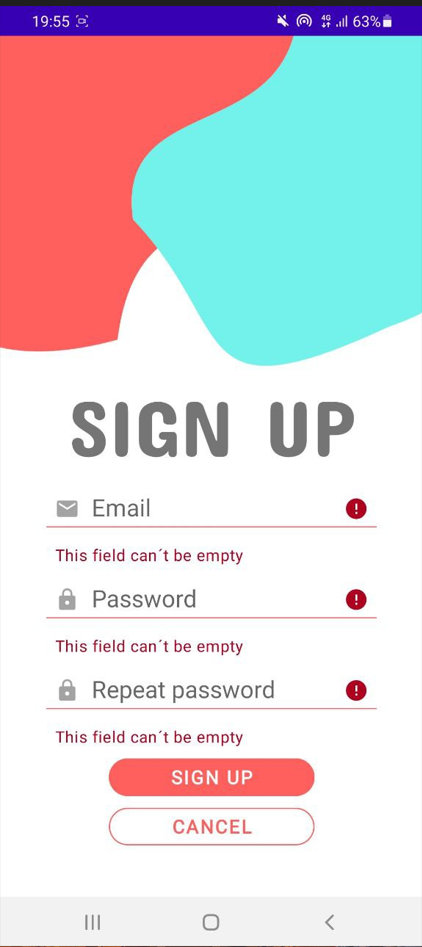
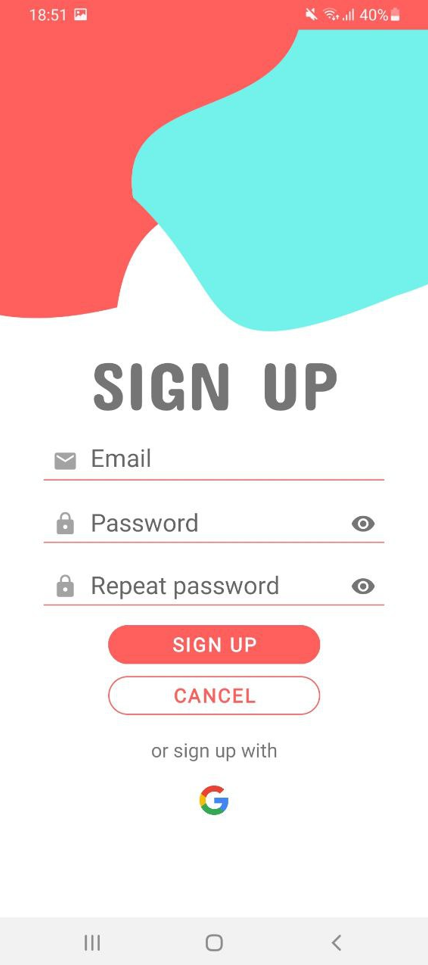
Init Readme V1

diff --git a/README.md b/README.md
@@ -1,58 +1,6 @@
 # MeetMap
 Application that allows you to see the next activities in your city and meet people on them. This project will be made by Almudena Fernandez, Iker Iturralde and Nerea Ramos for the modules: "Desarrollo de Interfaces" and "Programación Multimedia y dispositivos Móviles"
 
-## [Splash View](https://github.com/leoneliker/MeetMap/blob/master/app/src/main/java/com/ikalne/meetmap/Splash.kt)
-
-
-[Splash](https://www.youtube.com/shorts/q-YjV9VqvEQ) view with two animations of two hands coming together.
-
-
-![Splash Gif](img/splash_gif.gif)
-
-
-## [Initial View](https://github.com/leoneliker/MeetMap/blob/master/app/src/main/java/com/ikalne/meetmap/Initial.kt)
-
-
-[Initial carousel](https://www.youtube.com/shorts/AK8dwAdvpHA) that starts the app with information about the possibilities of the application.
-
-
-![Initial Gif](img/initial_gif.gif)
-
-
-## Login and Sign Up
-
-
-Login and SignUp connected to the database and with verification of the fields.
-
-
-[![Login](img/Login.png)](https://github.com/leoneliker/MeetMap/blob/master/app/src/main/java/com/ikalne/meetmap/Login.kt)  [![SignUp](img/signUp.png)](https://github.com/leoneliker/MeetMap/blob/master/app/src/main/java/com/ikalne/meetmap/SignUp.kt)
-
-
-## [Fragments Main View](https://github.com/leoneliker/MeetMap/blob/master/app/src/main/java/com/ikalne/meetmap/MainAppActivity.kt)
-
-
-[Main view of the application](https://www.youtube.com/shorts/ME_c6M86qBU).  A map that through the location allows you to know the plans that are nearby. A bar with buttons that allows navigation between the different possibilities of the app: favorites, chat, profile.
-
-
-![Fragments Gif](img/fragments_gif.gif)
-
-
-Connects with device location for geolocation:
-
-
-[![Map](img/ubicacion.png)](https://github.com/leoneliker/MeetMap/blob/master/app/src/main/java/com/ikalne/meetmap/fragments/MapFragment.kt)
-
-
-The user's profile is a [scrollable view](https://github.com/leoneliker/MeetMap/blob/master/app/src/main/java/com/ikalne/meetmap/fragments/EditProfileFragment.kt) it has a rounded photo of the person, fields with their personal data and two buttons: cancel and save.
-
-
-## [Figma prototype](https://www.figma.com/file/BnFUxtnABdXq7QyjVwtNXr/MeetMap?node-id=58%3A35&t=M3GuCny9oMMSULwz-1)
-
-
-![Figma prototype](img/figma_prototype.png)
-
-
-
 ## User manual
 
 #### Welcome to MeetMap, an application that will allow you to meet a lot of people doing really interesting plans in Madrid.
@@ -84,5 +32,123 @@ Finally, back in the map, we can see:
 
 Also, you can see an example of edit your profile.
 
+## [Figma prototype](https://www.figma.com/file/BnFUxtnABdXq7QyjVwtNXr/MeetMap?node-id=58%3A35&t=M3GuCny9oMMSULwz-1)
 
-https://www.youtube.com/@meetmap
+
+![Figma prototype](img/figma_prototype.png)
+
+## [Splash View](https://github.com/leoneliker/MeetMap/blob/master/app/src/main/java/com/ikalne/meetmap/Splash.kt)
+
+
+[Splash](https://www.youtube.com/shorts/q-YjV9VqvEQ) view with two animations of two hands coming together.
+
+
+![Splash Gif](img/splash_gif.gif)
+
+
+## [Initial View](https://github.com/leoneliker/MeetMap/blob/master/app/src/main/java/com/ikalne/meetmap/Initial.kt)
+
+
+[Initial carousel](https://www.youtube.com/shorts/cyRHQYf8o8I) that starts the app with information about the possibilities of the application.
+
+
+![Initial Gif](img/initial_gif.gif)
+
+
+## Login and Sign Up
+
+
+Login and SignUp connected to the database and with verification of the fields. Option to sign up and log in with Google account
+
+
+[![Login](img/Login.png)](https://github.com/leoneliker/MeetMap/blob/master/app/src/main/java/com/ikalne/meetmap/LoginScroll.kt)  [![SignUp](img/signUp.png)](https://github.com/leoneliker/MeetMap/blob/master/app/src/main/java/com/ikalne/meetmap/SignUpScroll.kt)
+
+
+## [Fragments Main View](https://github.com/leoneliker/MeetMap/blob/master/app/src/main/java/com/ikalne/meetmap/MainAppActivity.kt)
+
+
+[Main view of the application](https://www.youtube.com/shorts/GnJL-nRWt7w).  A map that through the location allows you to know the plans that are nearby. A bar with buttons that allows navigation between the different possibilities of the app: favorites, chat, profile.
+
+
+![Fragments Gif](img/fragments_gif.gif)
+
+
+Connects with device location for geolocation:
+
+
+[![Map](img/ubicacion.png)](https://github.com/leoneliker/MeetMap/blob/master/app/src/main/java/com/ikalne/meetmap/fragments/MapFragment.kt)
+
+Each marker has information that can be consulted:
+
+
+[![Map](img/mapApp.png)](https://github.com/leoneliker/MeetMap/blob/master/app/src/main/java/com/ikalne/meetmap/fragments/MapFragment.kt)  [![Map Activity](img/mapActivity.png)](https://github.com/leoneliker/MeetMap/blob/master/app/src/main/java/com/ikalne/meetmap/fragments/InfoActivityFragment.kt)
+
+
+The user's profile is a [scrollable view](https://github.com/leoneliker/MeetMap/blob/master/app/src/main/java/com/ikalne/meetmap/fragments/EditProfileFragment.kt) it has a rounded photo of the person, fields with their personal data and two buttons: cancel and save.
+
+
+### [Edit profile](https://github.com/leoneliker/MeetMap/blob/master/app/src/main/java/com/ikalne/meetmap/fragments/EditProfileFragment.kt)
+
+
+![Edit Profile](img/editProfile.png)
+
+
+The information and the photo can be edited and the changes are observed in that same view and in the drop-down side menu
+
+
+[![Navigation View first photo ](img/navViewEspFoto1.png)](https://github.com/leoneliker/MeetMap/blob/master/app/src/main/res/layout/activity_main_app.xml)  [![Navigation View photo changed](img/navViewEsp.png)](https://github.com/leoneliker/MeetMap/blob/master/app/src/main/java/com/ikalne/meetmap/MainAppActivity.kt)
+
+``` kotlin
+email = PreferencesManager.getDefaultSharedPreferences(binding.root.context).getEmail()
+         emailuser.setText(email)
+         fStore.collection("users").document(email).get().addOnSuccessListener {
+             username.setText(it.get("name") as String)
+             //binding.mail.setText(email)
+             Glide.with(this)
+                 .load(it.get("img")as String)
+                 .circleCrop()
+                 .into(imagenav)
+         }
+```
+
+
+### [Faqs](https://github.com/leoneliker/MeetMap/blob/master/app/src/main/java/com/ikalne/meetmap/fragments/FaqsFragment.kt)
+
+
+![Faqs Fragment](img/Faqs.png)
+
+
+### [ContactUs](https://github.com/leoneliker/MeetMap/blob/master/app/src/main/java/com/ikalne/meetmap/fragments/ConctactUsFragment.kt)
+
+
+![ContactUsFragment](img/contactEng.png)
+
+
+## Languages
+
+
+The app is available in English and Spanish:
+
+
+![Sign up in English](img/signUp.png)  ![Registro in Spanish](img/regsitroEsp.png)
+
+
+![Navigation View in English](img/navViewEng.png)  ![Navigation View in Spanish](img/navViewEsp.png)
+
+
+![Contact us in English](img/contactEng.png)  ![Contactanos in Spanish](img/contactoEsp.png)
+
+
+
+[MeetMap on Youtube](https://www.youtube.com/@meetmap)
+
+
+**App designed and created by Almudena Fernández Cárdenas, Iker Iturralde Tejido y Nerea Ramos Escobar**
+
+>This repository is licensed under
+>[Creativecommons Org Licenses By Sa 4](https://creativecommons.org/licenses/by-nc-sa/4.0/)
+
+
+
+
+
